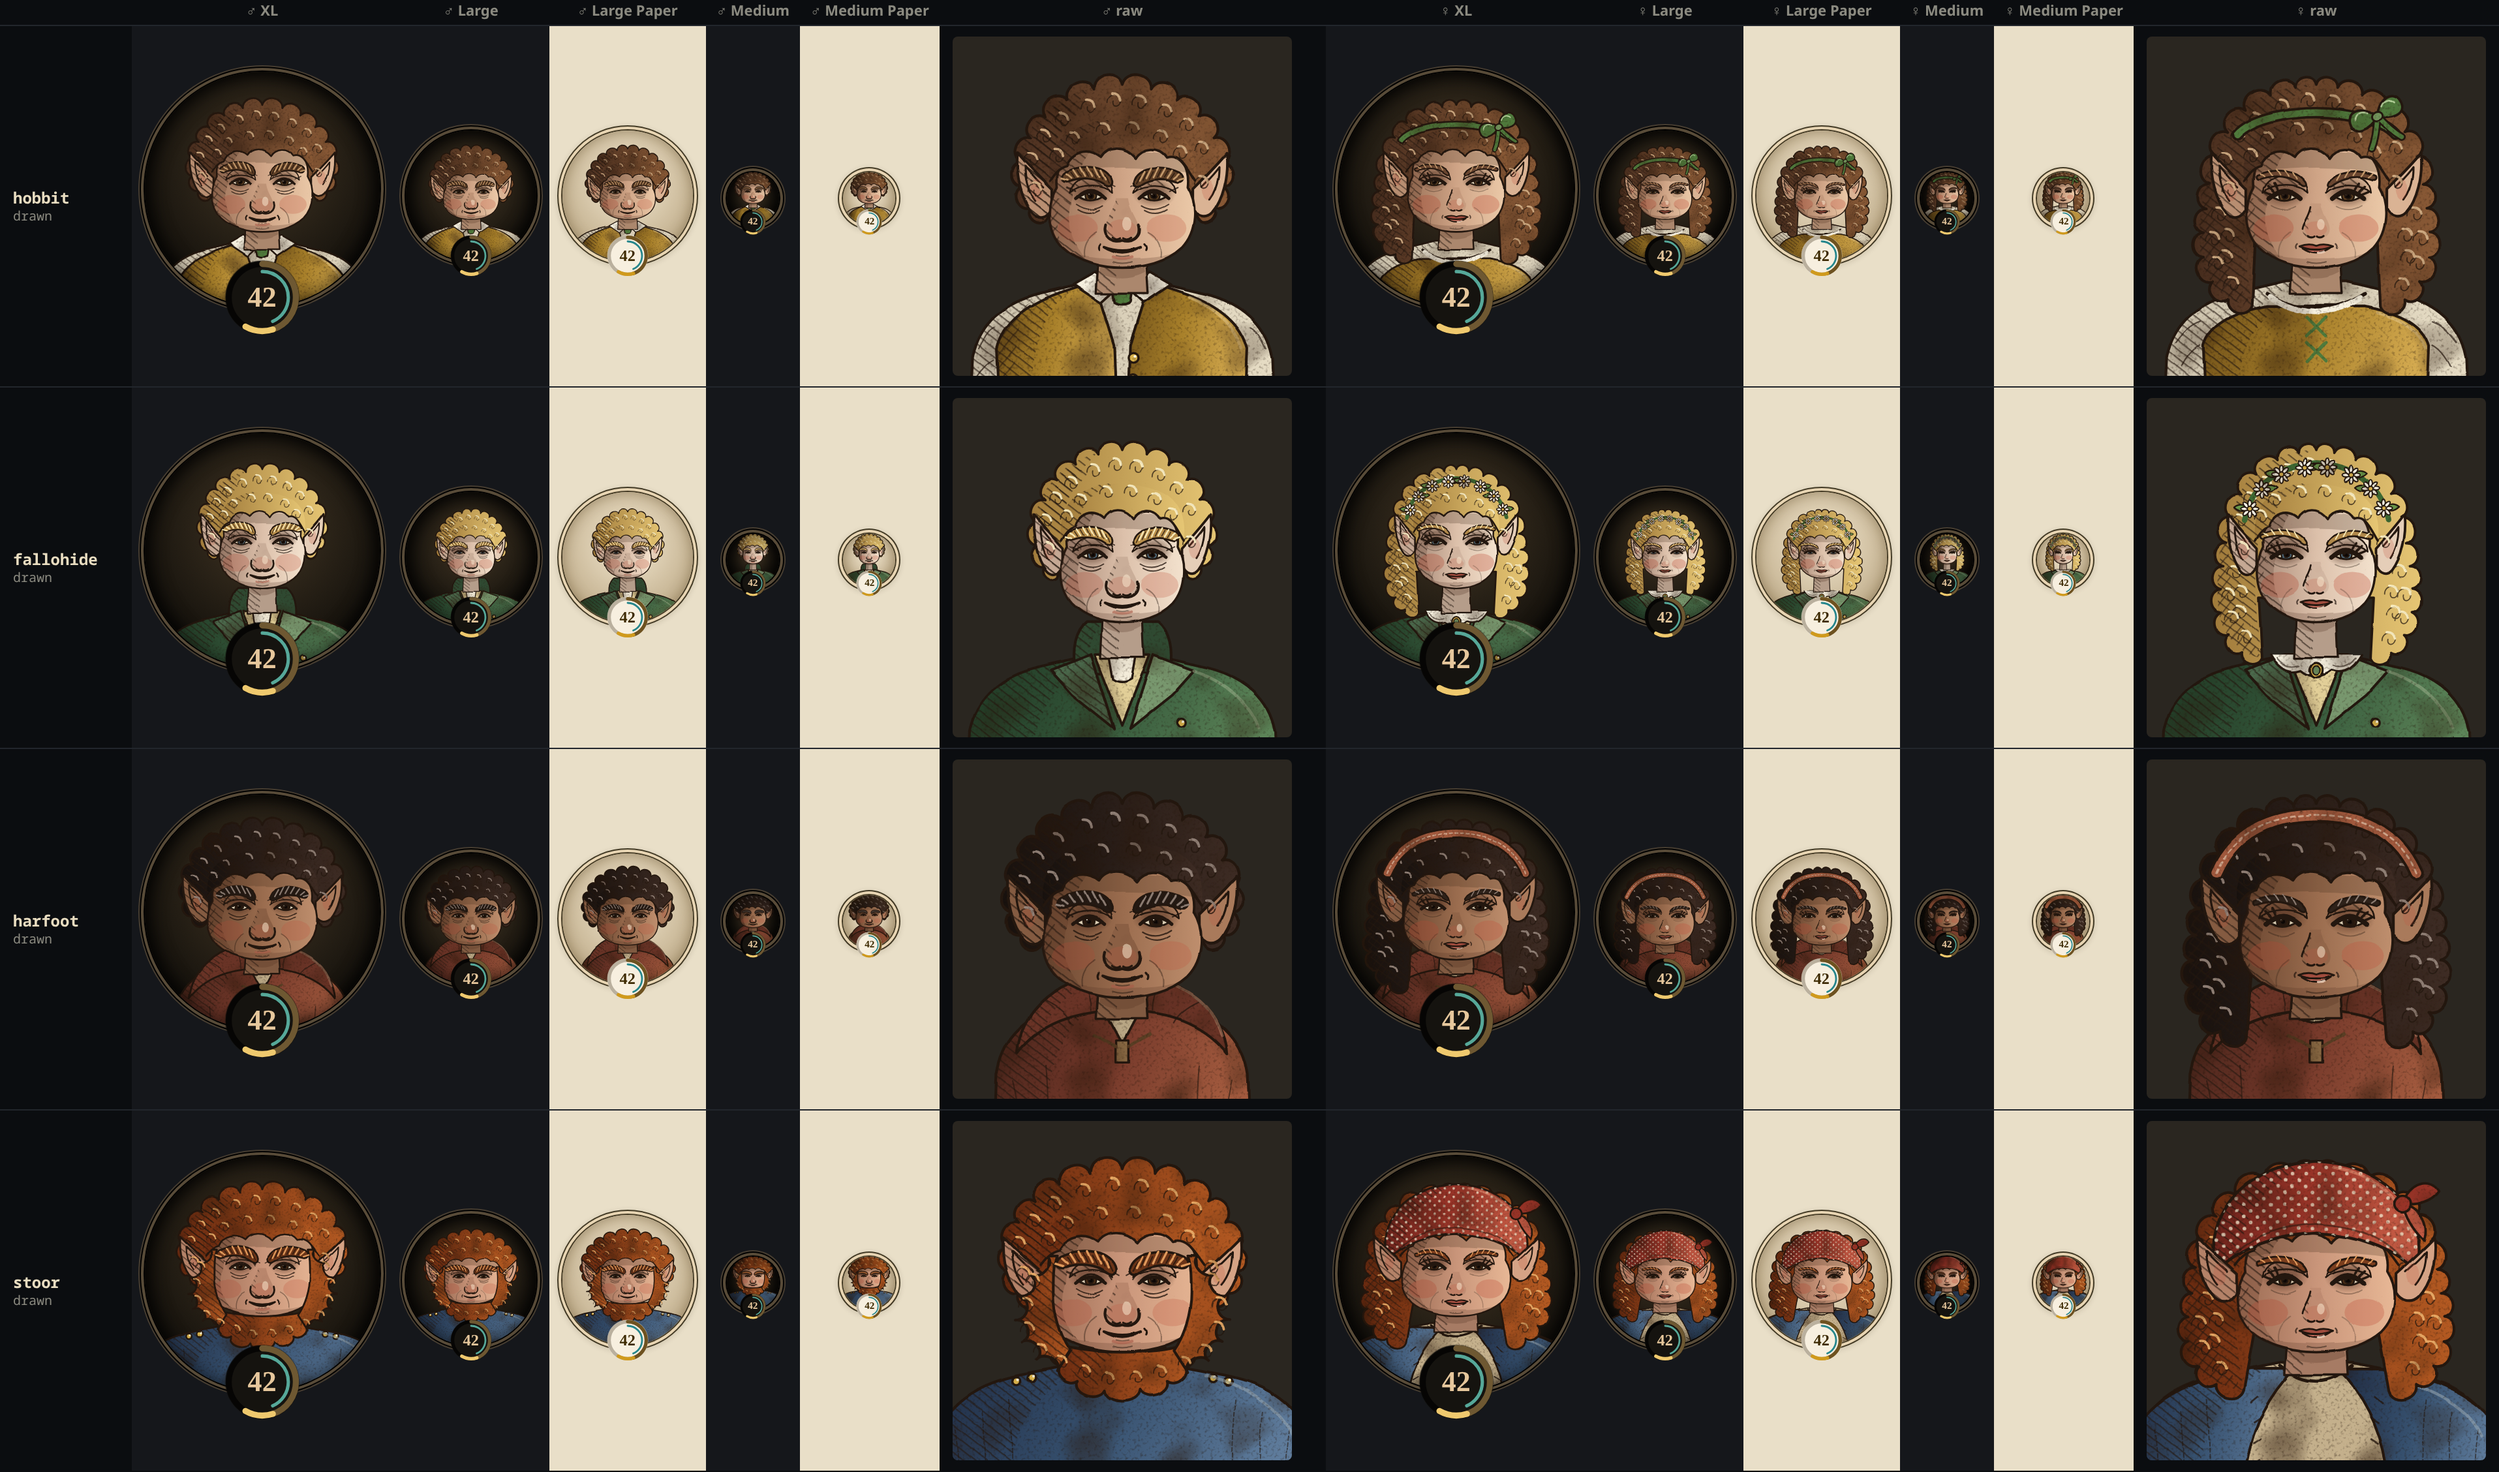
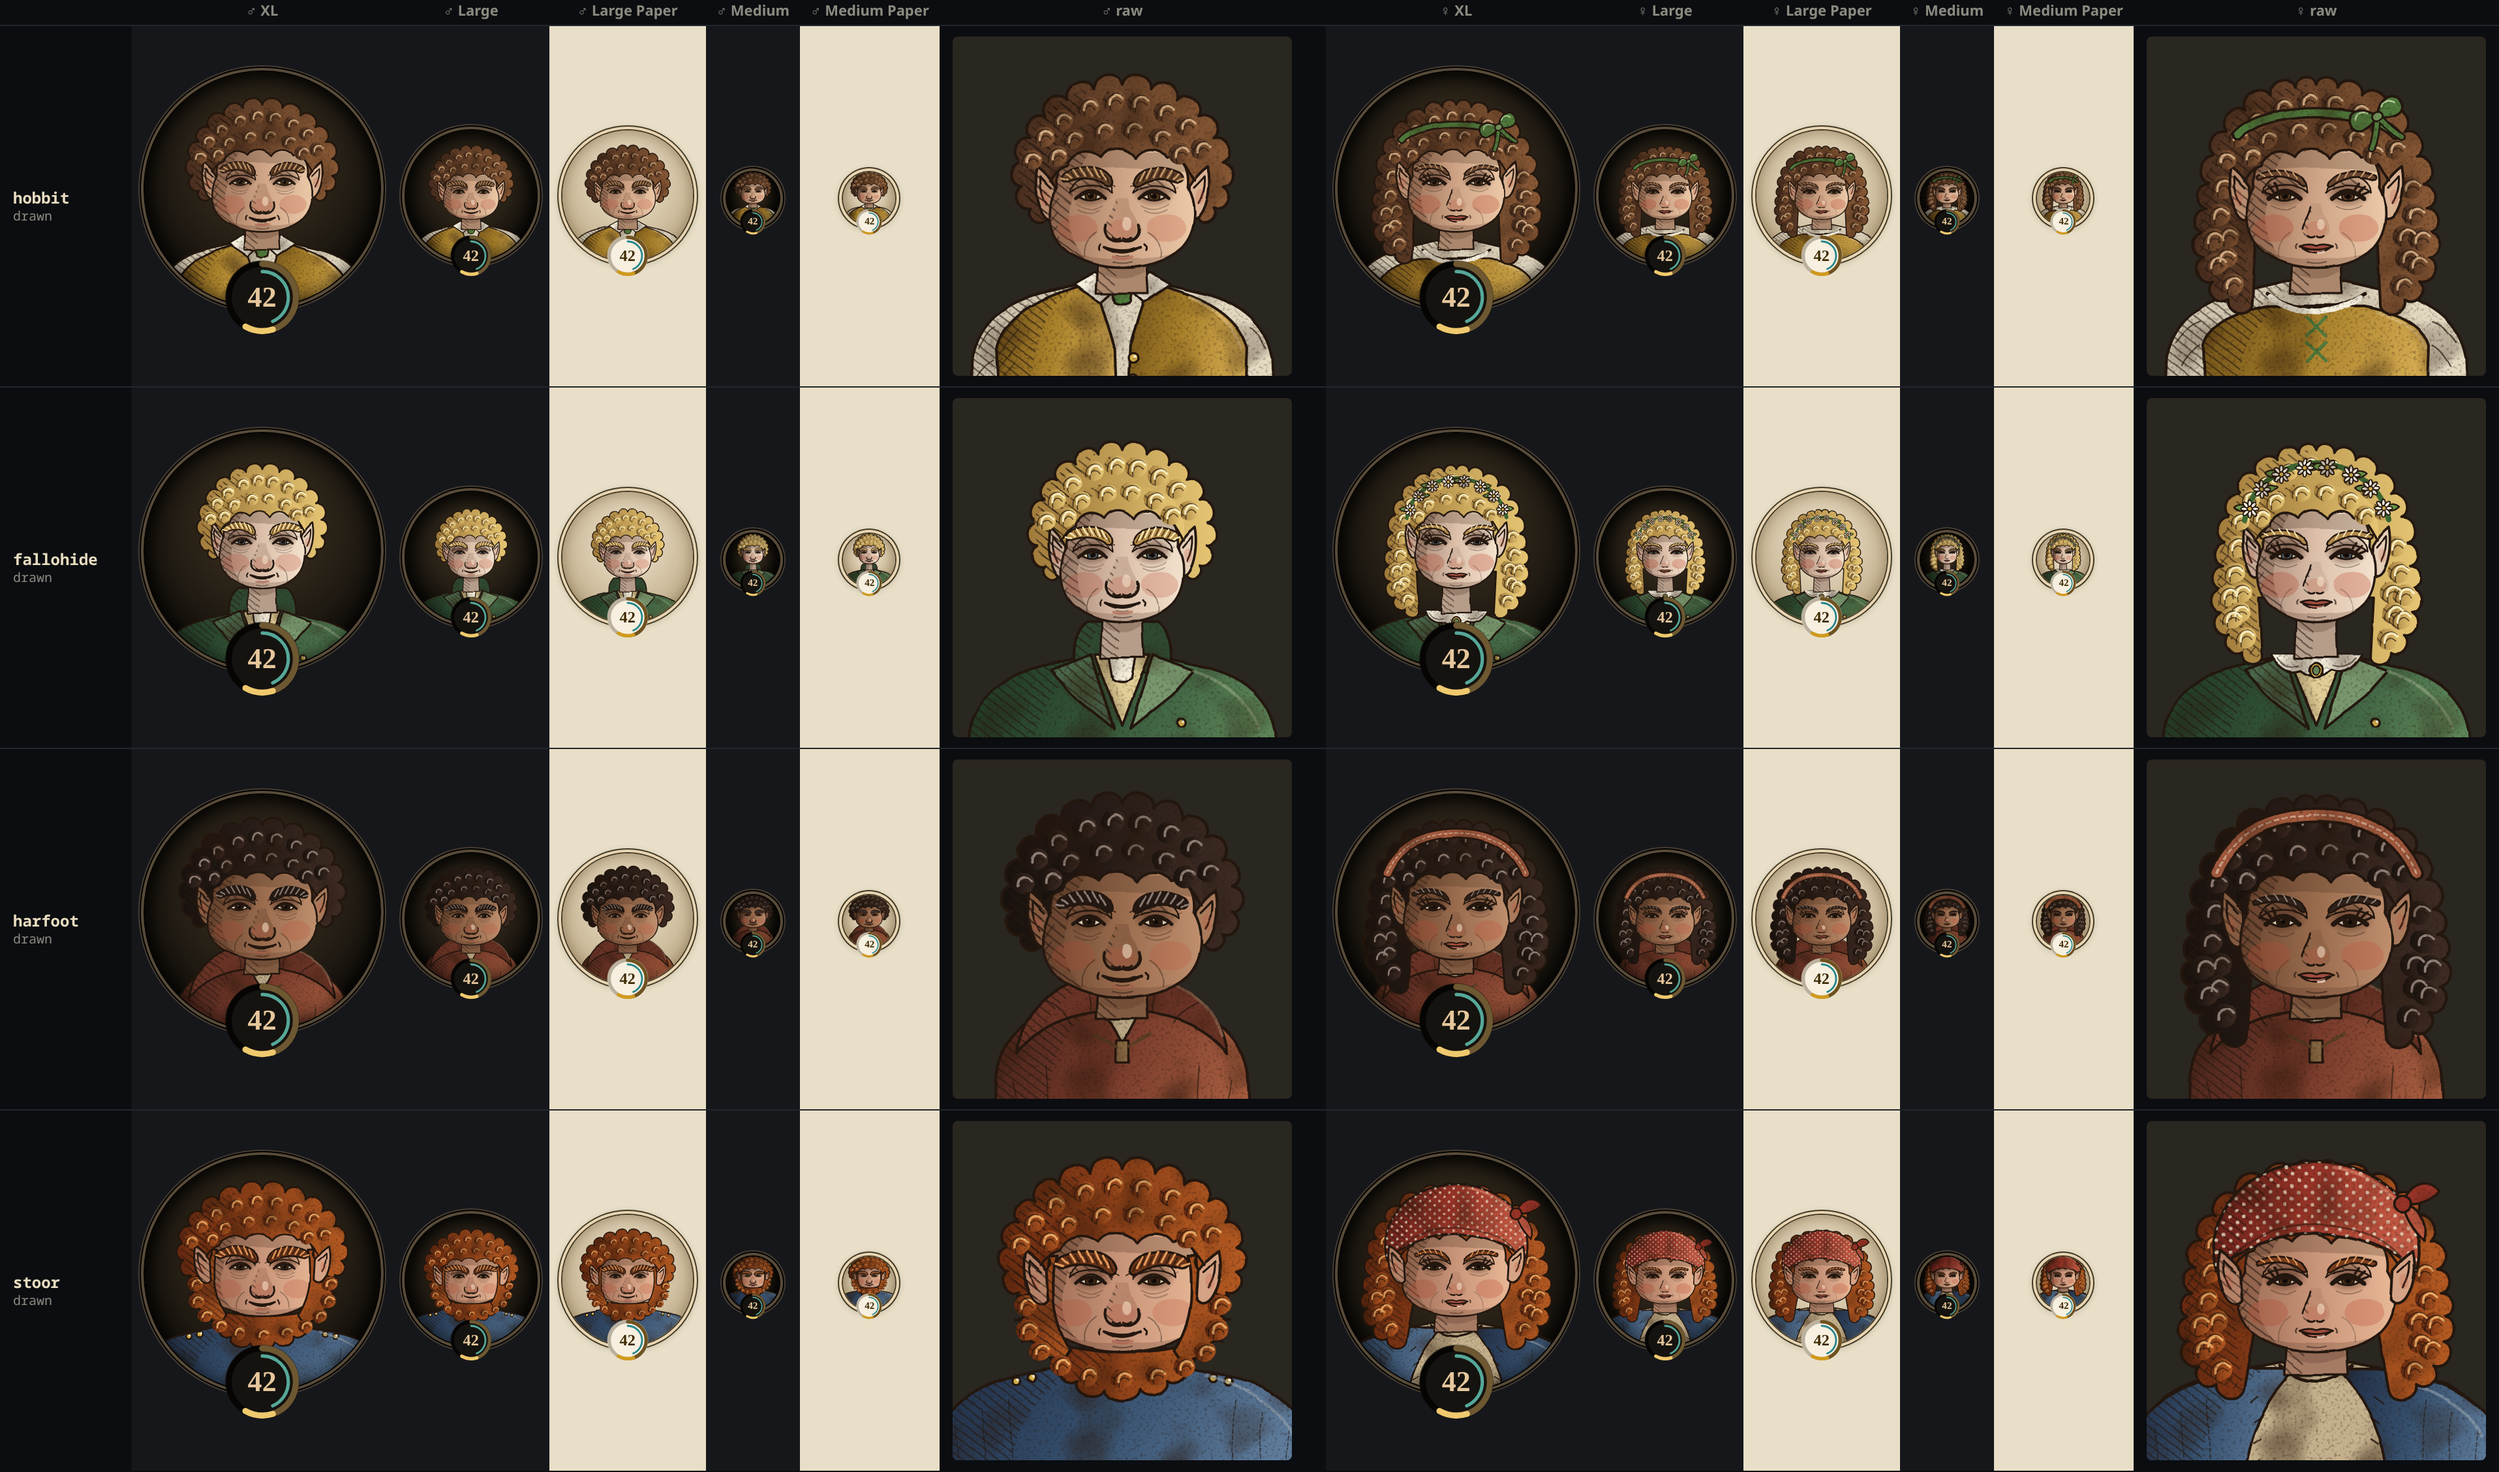
feat(portraits): hobbit curls as shaded clumps, smaller leaf ears, younger faces
The consistency review: curls are gradient clumps with a hatched shadow
side and strands inside (outline only on the silhouette), the ears are
smaller with a soft tip, the under-eye lines drawn faint.

Claude-Session: https://claude.ai/code/session_01Fx3riSE2eMf87VxUMhb19J

diff --git a/notes/research/portraits/stage/draw/hobbits.ts b/notes/research/portraits/stage/draw/hobbits.ts
@@ -1,7 +1,7 @@
 // The hobbits' portraits (stage 77's portrait pass, notes/research/portraits/
 // style.md, built on the dwarves' parts). The base hobbit is the balloon
 // hobbit's head (src/weather/balloons/passengers/hobbit.ts: the curly mop
-// and its fringe, the leaf ears, the round face, the button nose, the
+// and its fringe, the leaf ears (smaller, a soft tip), the round face, the button nose, the
 // cream shirt, the mustard waistcoat with brass buttons and the green
 // neckcloth) re-drawn in the portrait head units. The three breeds are that
 // same figure with one mark pushed hard, and their size told by proportion
@@ -83,11 +83,23 @@ const curlyMass = (left: readonly Pt[], j: number, close: string, k = .55): stri
   const L = left.map(([x, y]) => [x * j, y] as const), R = [...L].reverse().map(([x, y]) => [-x, y] as const);
   return `${bumpy(L, k)}L${n(R[0]![0])},${n(R[0]![1])}${bumpy(R, k, false)}${close}`;
 };
-/** Curls: an ink spiral each (Large) and a light tick of sheen on its upper right. */
+/**
+ * Curl clumps: rounded locks, each a gradient mass (dark left, lit right)
+ * with its shadow side hatched and strands curving inside it, as the
+ * dwarves' beards are made. No outline: the ink is on the outer silhouette
+ * only. Drawn top to bottom, so the lower locks overlap the upper.
+ */
 const curls = (c: Ctx, at: readonly (readonly [number, number, number])[], hi: string, op = .9): string => {
-  const ink = at.map(([x, y, r]) => `M${n(x - r)},${n(y + r * .3)}C${n(x - r)},${n(y - r * 1.25)} ${n(x + r * 1.2)},${n(y - r * 1.25)} ${n(x + r)},${n(y + r * .2)}C${n(x + r * .8)},${n(y + r * 1.1)} ${n(x - r * .3)},${n(y + r * 1.1)} ${n(x - r * .1)},${n(y + r * .1)}`).join('');
-  const lit = at.map(([x, y, r]) => `M${n(x - r * .3)},${n(y - r * .95)}Q${n(x + r * .75)},${n(y - r * 1.05)} ${n(x + r * .95)},${n(y)}`).join('');
-  return strands(c, ink, lit, hi, op);
+  const sorted = [...at].sort((a, b) => a[1] - b[1]);
+  let out = '', ink = '', lit = '';
+  for (const [x, y, r] of sorted) {
+    const P = (a: number, b: number): string => `${n(x + a * r)},${n(y + b * r)}`;
+    out += `<path d="M${P(1, 0)}C${P(1, -1.1)} ${P(-.9, -1.2)} ${P(-1, 0)}C${P(-1.05, .55)} ${P(-.6, .95)} ${P(-.1, 1)}C${P(.5, 1)} ${P(1, .6)} ${P(1, 0)}Z" fill="${c.url('h')}" stroke="none"/>` +
+      `<path d="M${P(-1, 0)}C${P(-1.05, .55)} ${P(-.6, .95)} ${P(-.1, 1)}C${P(-.6, .6)} ${P(-.72, .1)} ${P(-.45, -.85)}C${P(-.8, -.62)} ${P(-1, -.3)} ${P(-1, 0)}Z" fill="${c.url('p')}" stroke="none"/>`;
+    ink += `M${P(-.7, .6)}C${P(-.9, -.4)} ${P(.2, -.95)} ${P(.75, -.3)}M${P(-.3, .85)}C${P(-.42, .1)} ${P(.2, -.32)} ${P(.62, .25)}`;
+    lit += `M${P(-.35, .35)}C${P(-.38, -.42)} ${P(.32, -.72)} ${P(.78, -.12)}`;
+  }
+  return out + strands(c, ink, lit, hi, op);
 };
 
 // ---- the palette ----
@@ -204,7 +216,7 @@ const backHair = (c: Ctx, s: Spec): string => {
     ? wx('M-42,72C-60,70 -74,56 -76,36C-78,10 -72,-30 -50,-56C-38,-66 -20,-72 -4,-73C-30,-58 -44,-30 -46,0C-48,30 -46,56 -42,72Z', j)
     : wx('M-50,16C-62,10 -70,-8 -68,-26C-64,-46 -46,-64 -20,-71C-36,-56 -44,-40 -46,-24C-48,-10 -48,4 -50,16Z', j);
   const deep = c.fem ? wx('M-42,72C-60,70 -74,56 -76,36C-78,10 -74,-14 -68,-28C-70,0 -68,40 -42,72Z', j) : '';
-  return mass(H, c.url('h'), 1.2, sh, c, deep) + (c.fem ? curls(c, CURL_F.map(([x, y]) => [x * j, y, 4.6] as const), s.hair[2]) : '');
+  return mass(H, c.url('h'), 1.2, sh, c, deep) + (c.fem ? curls(c, CURL_F.map(([x, y]) => [x * j, y, 8] as const), s.hair[2]) : '');
 };
 
 /** The balloon's fringe: curls tumbling over the forehead, above the brows. */
@@ -216,17 +228,17 @@ const fringe = (c: Ctx, s: Spec): string => {
   // the fringe has no outline at its top (it melts into the mop): only its scalloped lower edge is inked
   const bot = wx(B('M34,-12C30,-18 27,-25 21,-23C17,-29 9,-28 6,-23C1,-29 -7,-28 -10,-23C-16,-28 -24,-25 -26,-19C-30,-18 -32,-15 -34,-12'), j);
   return (c.fem ? '' : `<path d="${side}" fill="${c.url('p')}" stroke="none"/>`) + `<path d="${F}" fill="${c.url('h')}" stroke="none"/><path d="${sh}" fill="${c.url('p')}" stroke="none"/><path d="${bot}" fill="none" stroke-width="1.1"/>` +
-    curls(c, CURL.map(([x, y]) => [x * j, y, 4.4] as const), s.hair[2]);
+    curls(c, CURL.filter(([x, y]) => y < -12 || Math.abs(x) < 44).map(([x, y]) => [x * j, y, 7.4] as const), s.hair[2]);
 };
 
 /** The balloon's leaf ears, pointed up and out (the hobbit's mark in every size). */
 const ears = (c: Ctx, s: Spec): string => {
-  const j = s.jaw, E = wx(B('M-33,-8C-38,-13 -44,-19 -49,-25C-50,-14 -47,-3 -42,3C-39,6 -35,5 -33,1Z'), j);
-  const inner = wx(B('M-37,-9C-40,-12 -43,-15 -45.5,-18.5C-45.5,-12 -44,-7 -41,-3'), j);
+  const j = s.jaw, E = wx('M-44,-6C-48,-12 -52,-16 -56,-19C-58,-10 -57,2 -53,10C-50,16 -46,17 -43,13Z', j);
+  const inner = wx('M-47,-5C-50,-8 -52,-10 -54,-12.5C-54.5,-6 -53,0 -50,5', j);
   const [s0, s1] = s.skin;
   return `<path d="${E}" fill="${mix(s0, s1, .55)}" stroke-width="1.2"/><path d="${E}" fill="${c.url('p')}" stroke="none"/><path d="${inner}" fill="none" stroke-width=".9"/>` +
     `<path d="${mir(E)}" fill="${mix(s1, s.skin[2], .4)}" stroke-width="1.2"/><path d="${mir(inner)}" fill="none" stroke-width=".9"/>` +
-    `<ellipse cx="${n(-56 * j)}" cy="-4" rx="4" ry="7" fill="#c2553e" opacity=".22" stroke="none"/><ellipse cx="${n(56 * j)}" cy="-4" rx="4" ry="7" fill="#c2553e" opacity=".22" stroke="none"/>`;
+    `<ellipse cx="${n(-51 * j)}" cy="1" rx="3" ry="5" fill="#c2553e" opacity=".22" stroke="none"/><ellipse cx="${n(51 * j)}" cy="1" rx="3" ry="5" fill="#c2553e" opacity=".22" stroke="none"/>`;
 };
 
 // ---- the face (the balloon's round face, shortened) ----
@@ -270,7 +282,7 @@ const chops = (c: Ctx, s: Spec): string => {
   const j = s.jaw, hi = s.hair[2];
   const C = wx(bumpy([[-44, -16], [-54, -4], [-60, 10], [-62, 26], [-58, 40], [-50, 52], [-38, 60]], .5) + 'L-30,46C-36,36 -40,22 -40,8C-40,-2 -40,-10 -38,-16Z', j);
   const Bd = wx('M-38,42C-26,46 -12,47 0,47C12,47 26,46 38,42' + bumpy([[38, 42], [36, 56], [26, 66], [10, 72], [-10, 72], [-26, 66], [-36, 56], [-38, 42]], .5, false) + 'Z', j);
-  const at = ([[-52, 0, 4.4], [-56, 16, 4.6], [-55, 32, 4.6], [-48, 46, 4.4], [-36, 54, 4], [-22, 60, 4], [-8, 64, 4], [8, 64, 4], [22, 60, 4], [36, 54, 4], [48, 46, 4.4], [55, 32, 4.6], [56, 16, 4.6], [52, 0, 4.4]] as const).map(([x, y, r]) => [x * j, y, r] as const);
+  const at = ([[-52, 0, 7], [-56, 16, 7.4], [-55, 32, 7.4], [-48, 46, 7], [-36, 56, 7], [-20, 62, 7], [0, 64, 7], [20, 62, 7], [36, 56, 7], [48, 46, 7], [55, 32, 7.4], [56, 16, 7.4], [52, 0, 7]] as const).map(([x, y, r]) => [x * j, y, r] as const);
   return mass(Bd, c.url('h'), 1.2, wx('M-38,42C-26,46 -12,47 -4,47C-14,56 -16,64 -12,72C-24,68 -34,58 -38,42Z', j), c) +
     mass(C, c.url('h'), 1.2, C, c) + `<path d="${mir(C)}" fill="${mix(s.hair[0], s.hair[1], .8)}" stroke-width="1.2"/>` +
     curls(c, at, hi);
@@ -313,15 +325,18 @@ const deco = (c: Ctx, s: Spec): string => {
     `<path d="${wx('M10,-74C34,-70 52,-52 56,-28', j)}" fill="none" stroke="#f0a080" stroke-width="1.3" opacity=".5"/>` + knot;
 };
 
+/** The hobbits are young and cheerful: the eye's lines under it (parts.ts eye(), opacity .8) drawn at .28. */
+const young = (e: string): string => e.replace(/(stroke-width="\.6" stroke-linecap="round" opacity=")\.8"/g, '$1.28"');
+
 // ---- the whole figure ----
 const draw = (s: Spec): Draw => (o) => {
   const c = ctx(o), fem = c.fem;
   const k = s.head, headT = k === 1 ? '' : ` transform="translate(0,${n(-30 * (1 - k))}) scale(${k})"`;
   const kerchief = fem && s.deco === 'kerchief';
-  const head = pen(c, neck(c, s), true) + pen(c, backHair(c, s), s.fair) + (kerchief ? '' : pen(c, ears(c, s), true)) + pen(c, face(c, s), true) +
-    (s.chops && !fem ? pen(c, chops(c, s), s.fair) : '') + pen(c, fringe(c, s), s.fair) +
+  const head = pen(c, neck(c, s), true) + pen(c, backHair(c, s), s.fair) + (kerchief || s.chops ? '' : pen(c, ears(c, s), true)) + pen(c, face(c, s), true) +
+    (s.chops && !fem ? pen(c, chops(c, s), s.fair) : '') + (s.chops && !kerchief ? pen(c, ears(c, s), true) : '') + pen(c, fringe(c, s), s.fair) +
     pen(c, nose(c, s) + (fem ? lips(c) : smile(c)), true) +
-    pen(c, eyes(c, { lidFill: dark(s.skin[1], .1), lowFill: s.skin[1], ...s.eye, lash: fem, size: fem ? 1.06 : 1 }, s.brow), true) +
+    pen(c, young(eyes(c, { lidFill: dark(s.skin[1], .1), lowFill: s.skin[1], ...s.eye, lash: fem, size: fem ? 1.06 : 1 }, s.brow)), true) +
     (fem ? pen(c, deco(c, s)) : '') + (kerchief ? pen(c, ears(c, s), true) : '');
   const body = `<g transform="translate(0,${s.drop})">${pen(c, bust(c, s))}</g><g${headT}>${head}</g>`;
   return svg(c, defs(c, s), body);
